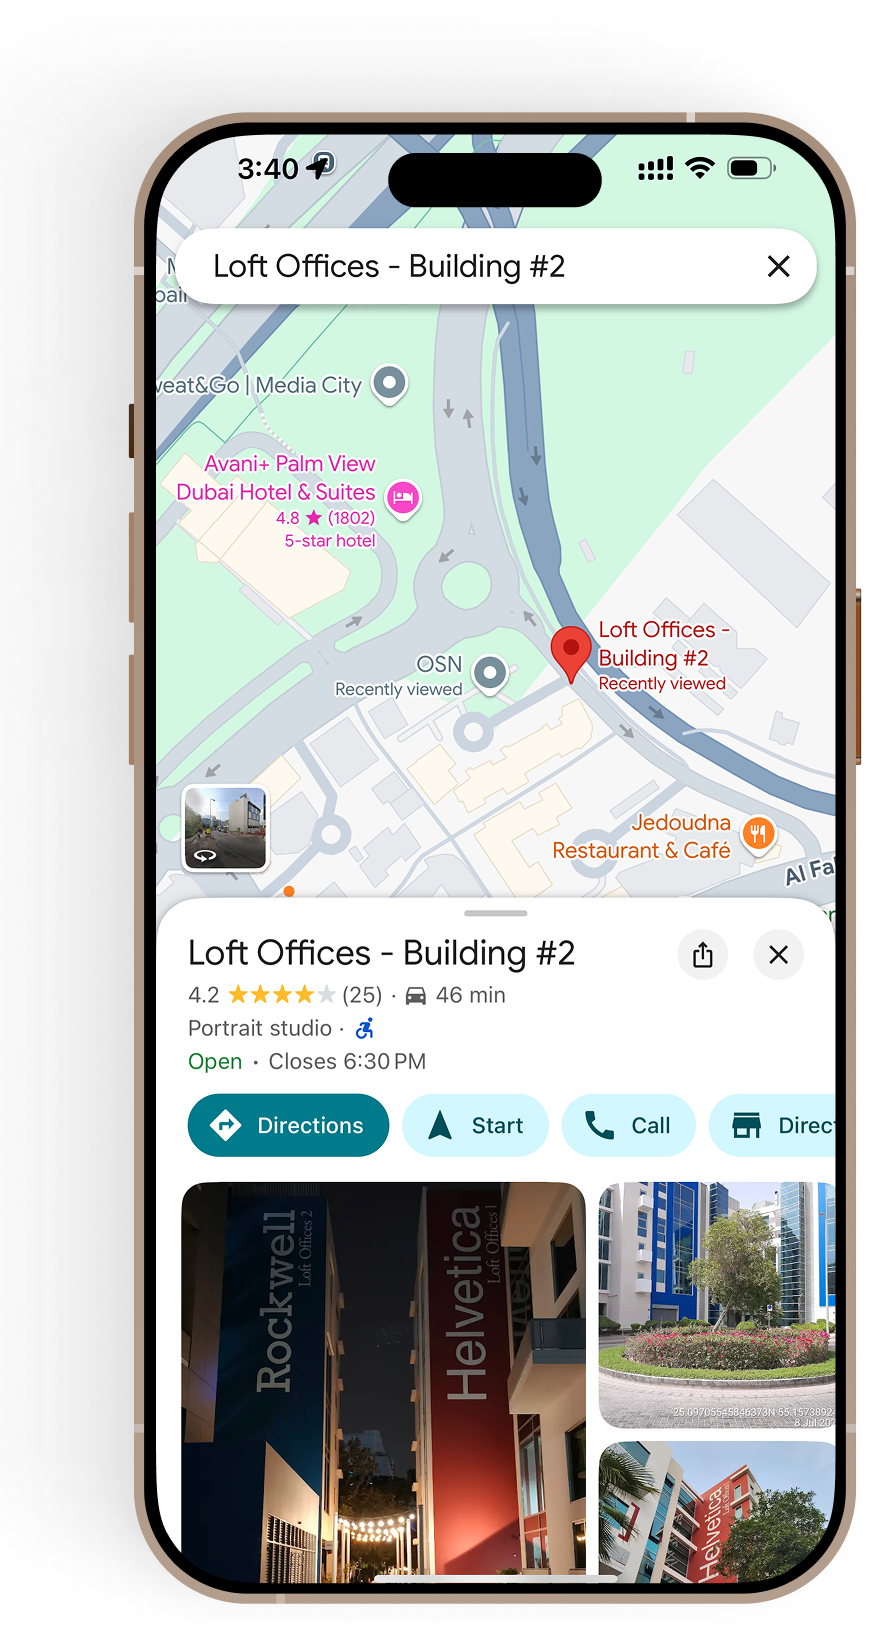
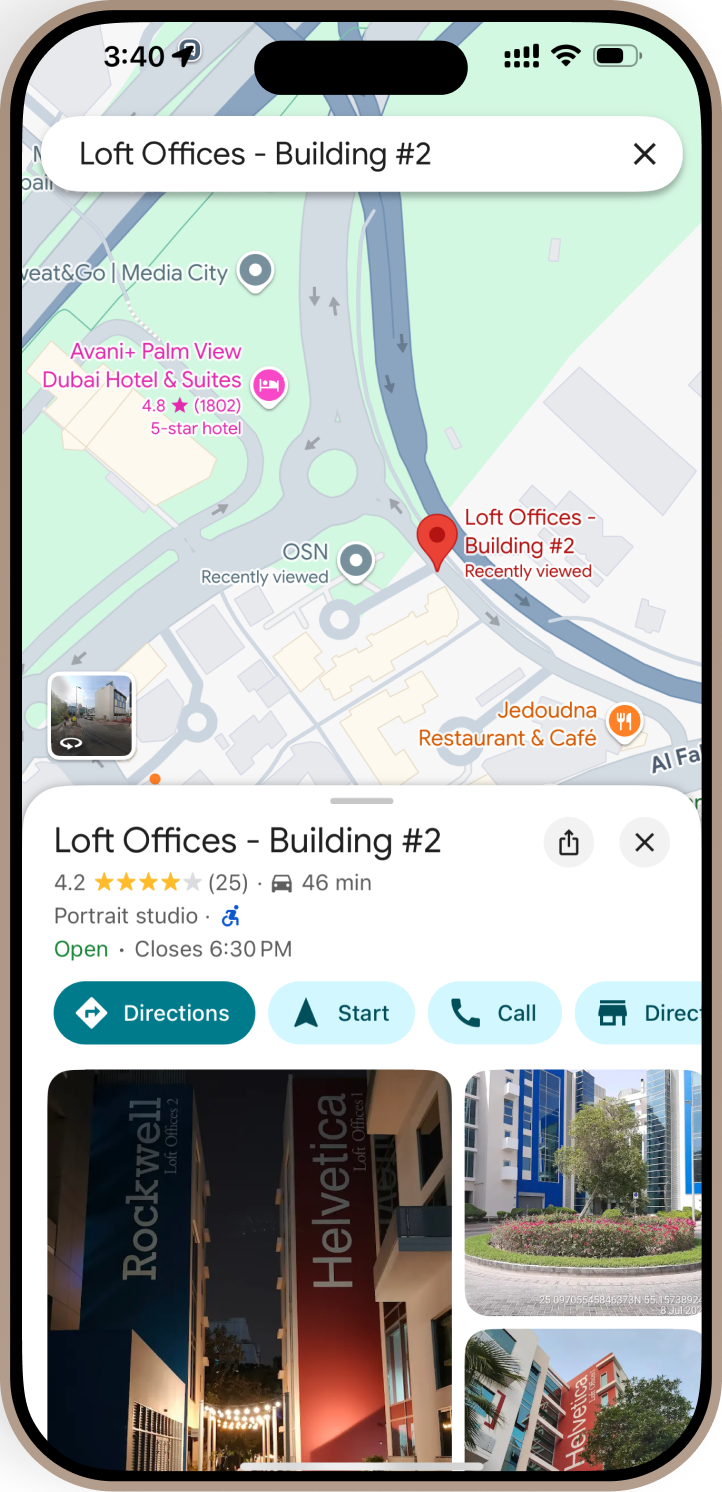
updates

diff --git a/src/components/language-translate/page.tsx b/src/components/language-translate/page.tsx
@@ -320,17 +320,16 @@ export default function LanguageSelector({
           <div className='absolute top-10 right-0 bg-[#FCFCFC] shadow-lg rounded-xl py-2 z-50 min-w-[150px]'>
             <ul className='flex flex-col w-full'>
               {languages.map((language) => (
-                <li key={language.code}>
-                  <button
-                    onClick={() => changeLanguage(language.code)}
-                    className={`w-full text-left px-4 py-2 hover:bg-gray-100 text-sm ${
-                      selectedLanguage === language.code
-                        ? 'font-semibold bg-gray-50'
-                        : ''
-                    }`}
-                  >
-                    {language.name}
-                  </button>
+                <li
+                  key={language.code}
+                  onClick={() => changeLanguage(language.code)}
+                  className={`w-full text-left px-4 py-2 hover:bg-gray-100 text-sm ${
+                    selectedLanguage === language.code
+                      ? 'font-semibold bg-gray-50'
+                      : ''
+                  }`}
+                >
+                  {language.name}
                 </li>
               ))}
             </ul>

diff --git a/src/components/homepage-components/location/location.tsx b/src/components/homepage-components/location/location.tsx
@@ -137,16 +137,16 @@ const DubaiStudioLocation = () => {
           </div>
 
           {/* Map Location */}
-          <div className='bg-[#F5F5F7] h-full p-6 3xl:py-10 3xl:px-[60px] relative rounded-xl shadow-md flex flex-col border items-center'>
-            <div className=' w-full md:w-auto h-full'>
+          <div className='bg-[#F5F5F7] h-full pt-8 pb-6 px-6 3xl:py-10 3xl:px-[60px] relative rounded-xl shadow-md flex flex-col border items-center'>
+            <div className=' w-full md:w-auto h-full flex items-center justify-center'>
               <Image
                 quality={100}
-                width={100}
-                height={100}
+                width={300}
+                height={650}
                 src='/images/iphone-16.png'
                 loading='lazy'
                 alt='Google Maps Location'
-                className='w-full rounded-t-[53px] h-full object-cover '
+                className=' rounded-t-[53px] object-cover '
               />
             </div>
             <div className='absolute bottom-0 bg-gradient-to-t w-full flex flex-col h-[45%] text-center justify-center from-[#F5F5F7] via-[#F5F5F7] to-transparent '>
